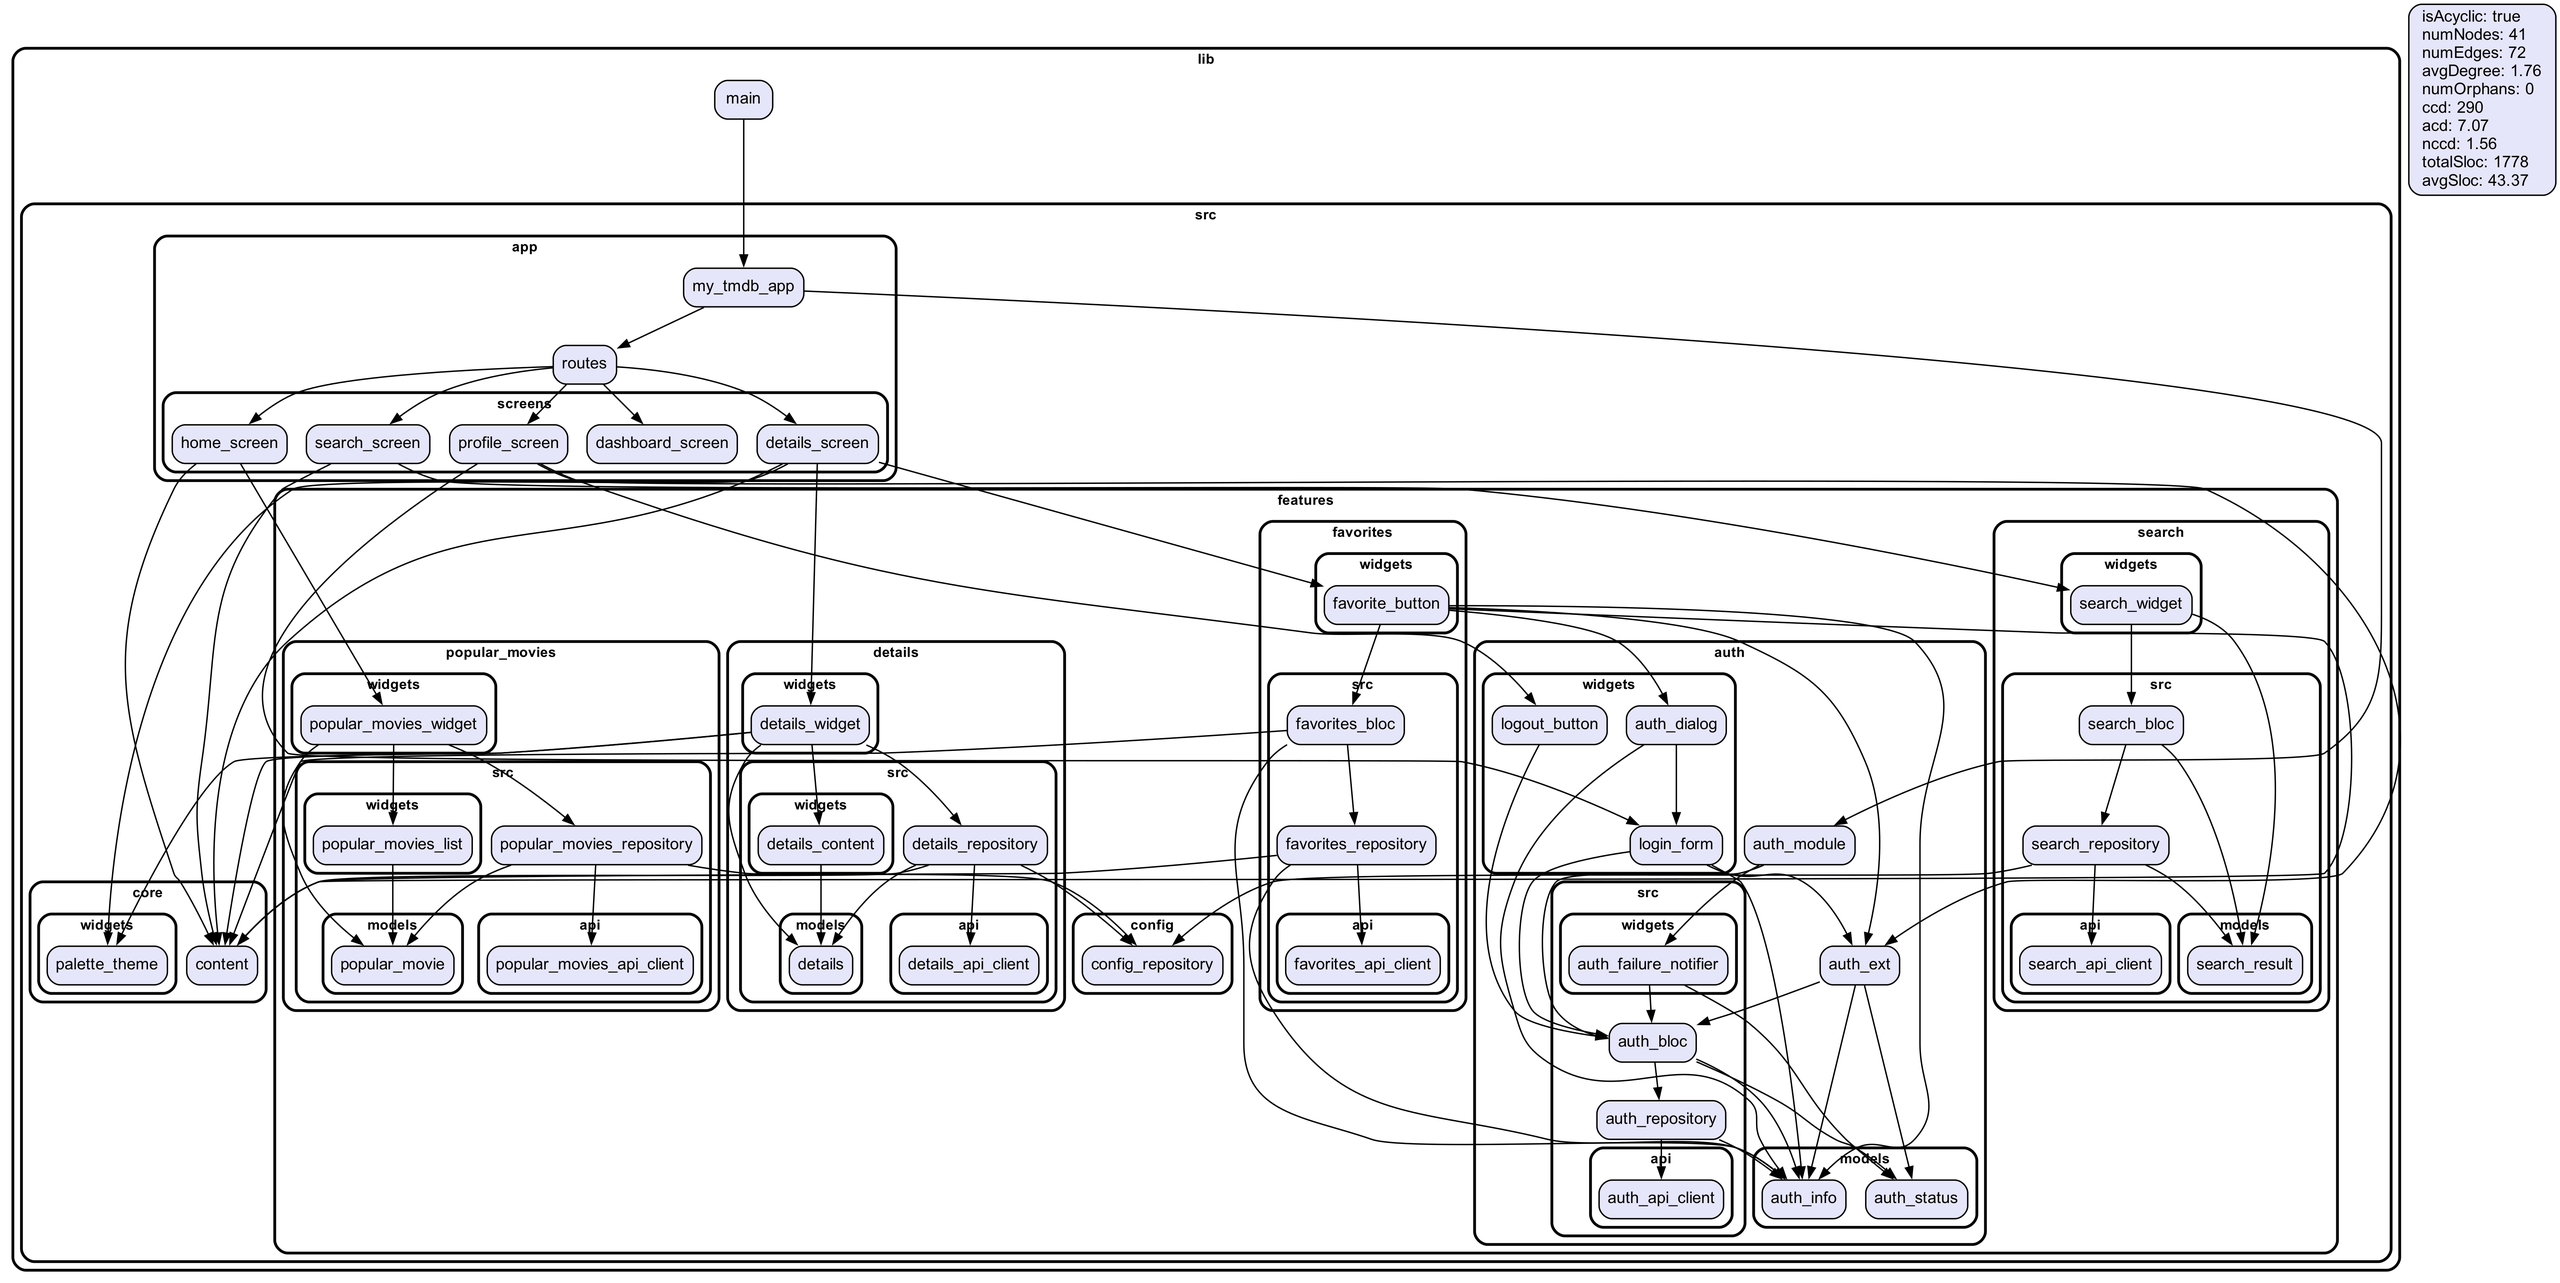
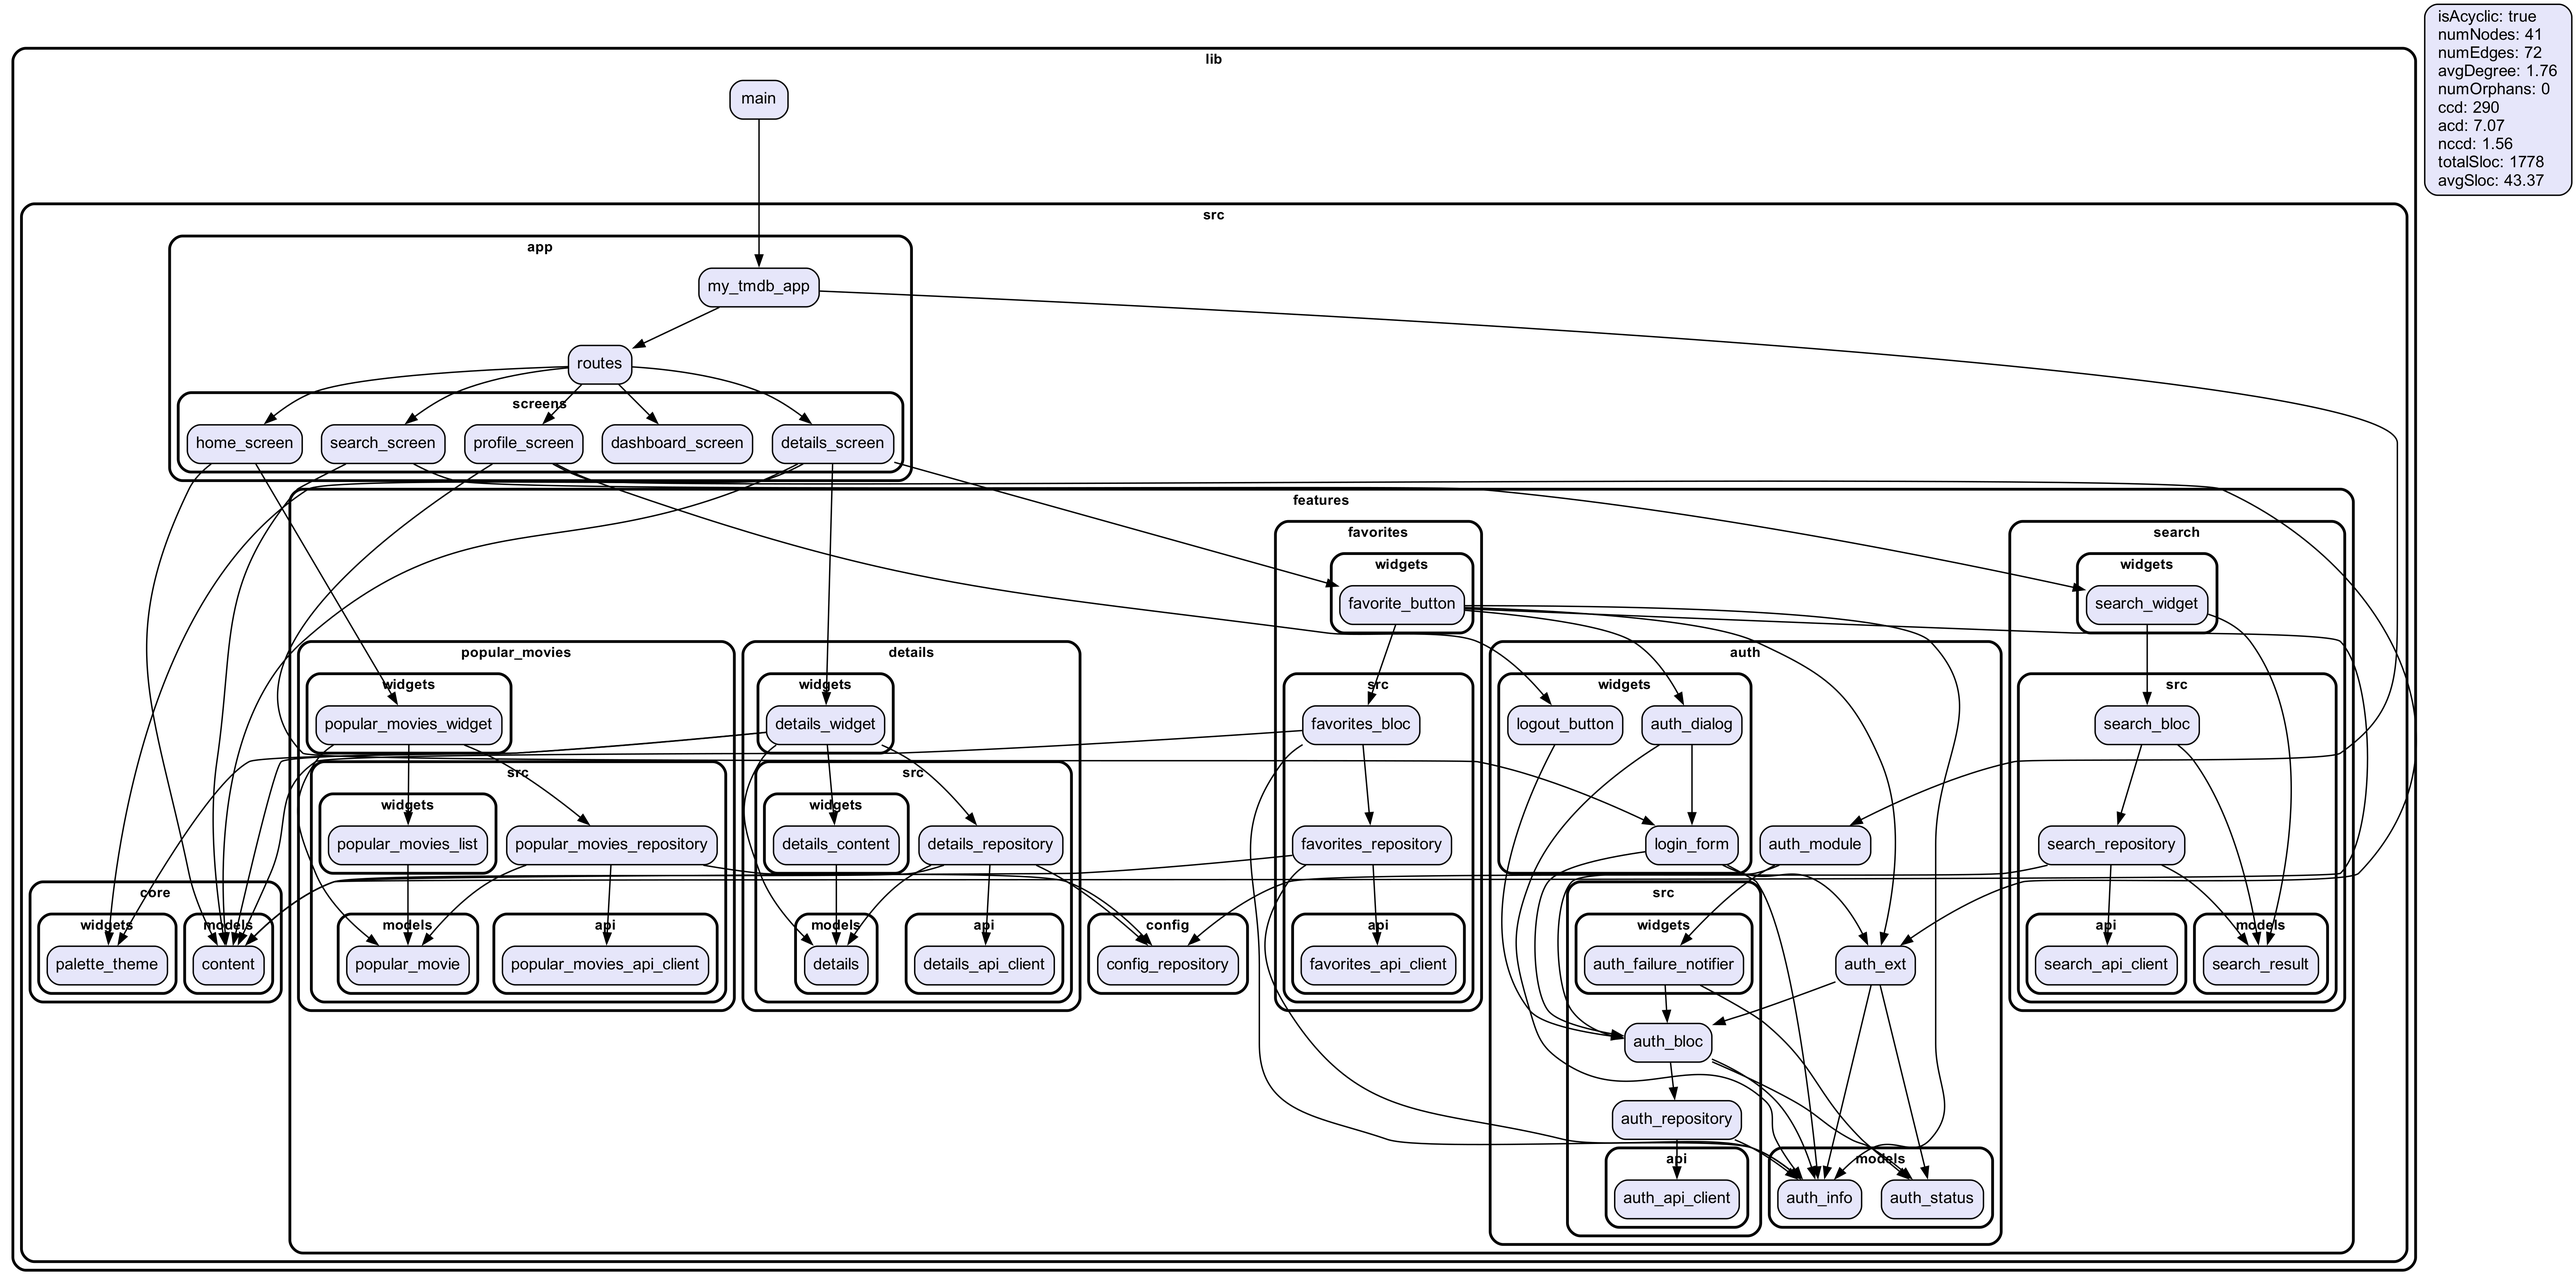
refactor: update structure

diff --git a/test/features/favorites/favorites_bloc_test.dart b/test/features/favorites/favorites_bloc_test.dart
@@ -3,7 +3,7 @@ import 'package:dfunc/dfunc.dart';
 import 'package:flutter_test/flutter_test.dart';
 import 'package:mockito/annotations.dart';
 import 'package:mockito/mockito.dart';
-import 'package:my_tmdb/src/core/content.dart';
+import 'package:my_tmdb/src/core/models/content.dart';
 import 'package:my_tmdb/src/features/auth/models/auth_info.dart';
 import 'package:my_tmdb/src/features/favorites/src/favorites_bloc.dart';
 import 'package:my_tmdb/src/features/favorites/src/favorites_repository.dart';

diff --git a/test/features/favorites/favorites_bloc_test.mocks.dart b/test/features/favorites/favorites_bloc_test.mocks.dart
@@ -7,7 +7,7 @@ import 'dart:async' as _i4;
 
 import 'package:dfunc/dfunc.dart' as _i2;
 import 'package:mockito/mockito.dart' as _i1;
-import 'package:my_tmdb/src/core/content.dart' as _i5;
+import 'package:my_tmdb/src/core/models/content.dart' as _i5;
 import 'package:my_tmdb/src/features/auth/models/auth_info.dart' as _i6;
 import 'package:my_tmdb/src/features/favorites/src/favorites_repository.dart'
     as _i3;

diff --git a/lib/src/di.config.dart b/lib/src/di.config.dart
@@ -10,7 +10,7 @@ import 'package:flutter_secure_storage/flutter_secure_storage.dart' as _i5;
 import 'package:get_it/get_it.dart' as _i1;
 import 'package:injectable/injectable.dart' as _i2;
 
-import 'core/content.dart' as _i18;
+import 'core/models/content.dart' as _i18;
 import 'di.dart' as _i20;
 import 'features/auth/src/api/auth_api_client.dart' as _i6;
 import 'features/auth/src/auth_bloc.dart' as _i16;

diff --git a/lib/src/app/routes.gr.dart b/lib/src/app/routes.gr.dart
@@ -14,7 +14,7 @@
 import 'package:auto_route/auto_route.dart' as _i6;
 import 'package:flutter/material.dart' as _i7;
 
-import '../core/content.dart' as _i8;
+import '../core/models/content.dart' as _i8;
 import 'screens/dashboard_screen.dart' as _i1;
 import 'screens/details_screen.dart' as _i2;
 import 'screens/home_screen.dart' as _i3;

diff --git a/lib/src/features/details/widgets/details_widget.dart b/lib/src/features/details/widgets/details_widget.dart
@@ -2,7 +2,7 @@ import 'package:dfunc/dfunc.dart';
 import 'package:flutter/material.dart';
 import 'package:provider/provider.dart';
 
-import '../../../core/content.dart';
+import '../../../core/models/content.dart';
 import '../../../core/widgets/palette_theme.dart';
 import '../../../di.dart';
 import '../src/details_repository.dart';

diff --git a/lib/src/features/favorites/src/favorites_bloc.dart b/lib/src/features/favorites/src/favorites_bloc.dart
@@ -4,7 +4,7 @@ import 'package:flutter_bloc/flutter_bloc.dart';
 import 'package:freezed_annotation/freezed_annotation.dart';
 import 'package:injectable/injectable.dart';
 
-import '../../../core/content.dart';
+import '../../../core/models/content.dart';
 import '../../auth/models/auth_info.dart';
 import 'favorites_repository.dart';
 

diff --git a/lib/src/app/screens/details_screen.dart b/lib/src/app/screens/details_screen.dart
@@ -1,6 +1,6 @@
 import 'package:flutter/material.dart';
 
-import '../../core/content.dart';
+import '../../core/models/content.dart';
 import '../../core/widgets/palette_theme.dart';
 import '../../features/details/widgets/details_widget.dart';
 import '../../features/favorites/widgets/favorite_button.dart';

diff --git a/lib/src/app/screens/search_screen.dart b/lib/src/app/screens/search_screen.dart
@@ -2,7 +2,7 @@ import 'package:auto_route/auto_route.dart';
 import 'package:dfunc/dfunc.dart';
 import 'package:flutter/material.dart';
 
-import '../../core/content.dart';
+import '../../core/models/content.dart';
 import '../../features/search/widgets/search_widget.dart';
 import '../routes.gr.dart';
 

diff --git a/lib/src/features/details/src/details_repository.dart b/lib/src/features/details/src/details_repository.dart
@@ -1,7 +1,7 @@
 import 'package:dfunc/dfunc.dart';
 import 'package:injectable/injectable.dart';
 
-import '../../../core/content.dart';
+import '../../../core/models/content.dart';
 import '../../config/config_repository.dart';
 import 'api/details_api_client.dart';
 import 'models/details.dart';

diff --git a/lib/src/features/favorites/widgets/favorite_button.dart b/lib/src/features/favorites/widgets/favorite_button.dart
@@ -1,7 +1,7 @@
 import 'package:flutter/material.dart';
 import 'package:flutter_bloc/flutter_bloc.dart';
 
-import '../../../core/content.dart';
+import '../../../core/models/content.dart';
 import '../../../di.dart';
 import '../../auth/auth_ext.dart';
 import '../../auth/models/auth_info.dart';

diff --git a/lib/src/app/screens/home_screen.dart b/lib/src/app/screens/home_screen.dart
@@ -1,7 +1,7 @@
 import 'package:auto_route/auto_route.dart';
 import 'package:flutter/material.dart';
 
-import '../../core/content.dart';
+import '../../core/models/content.dart';
 import '../../features/popular_movies/widgets/popular_movies_widget.dart';
 import '../routes.gr.dart';
 

diff --git a/lib/src/features/favorites/src/favorites_repository.dart b/lib/src/features/favorites/src/favorites_repository.dart
@@ -1,7 +1,7 @@
 import 'package:dfunc/dfunc.dart';
 import 'package:injectable/injectable.dart';
 
-import '../../../core/content.dart';
+import '../../../core/models/content.dart';
 import '../../auth/models/auth_info.dart';
 import 'api/favorites_api_client.dart';
 
